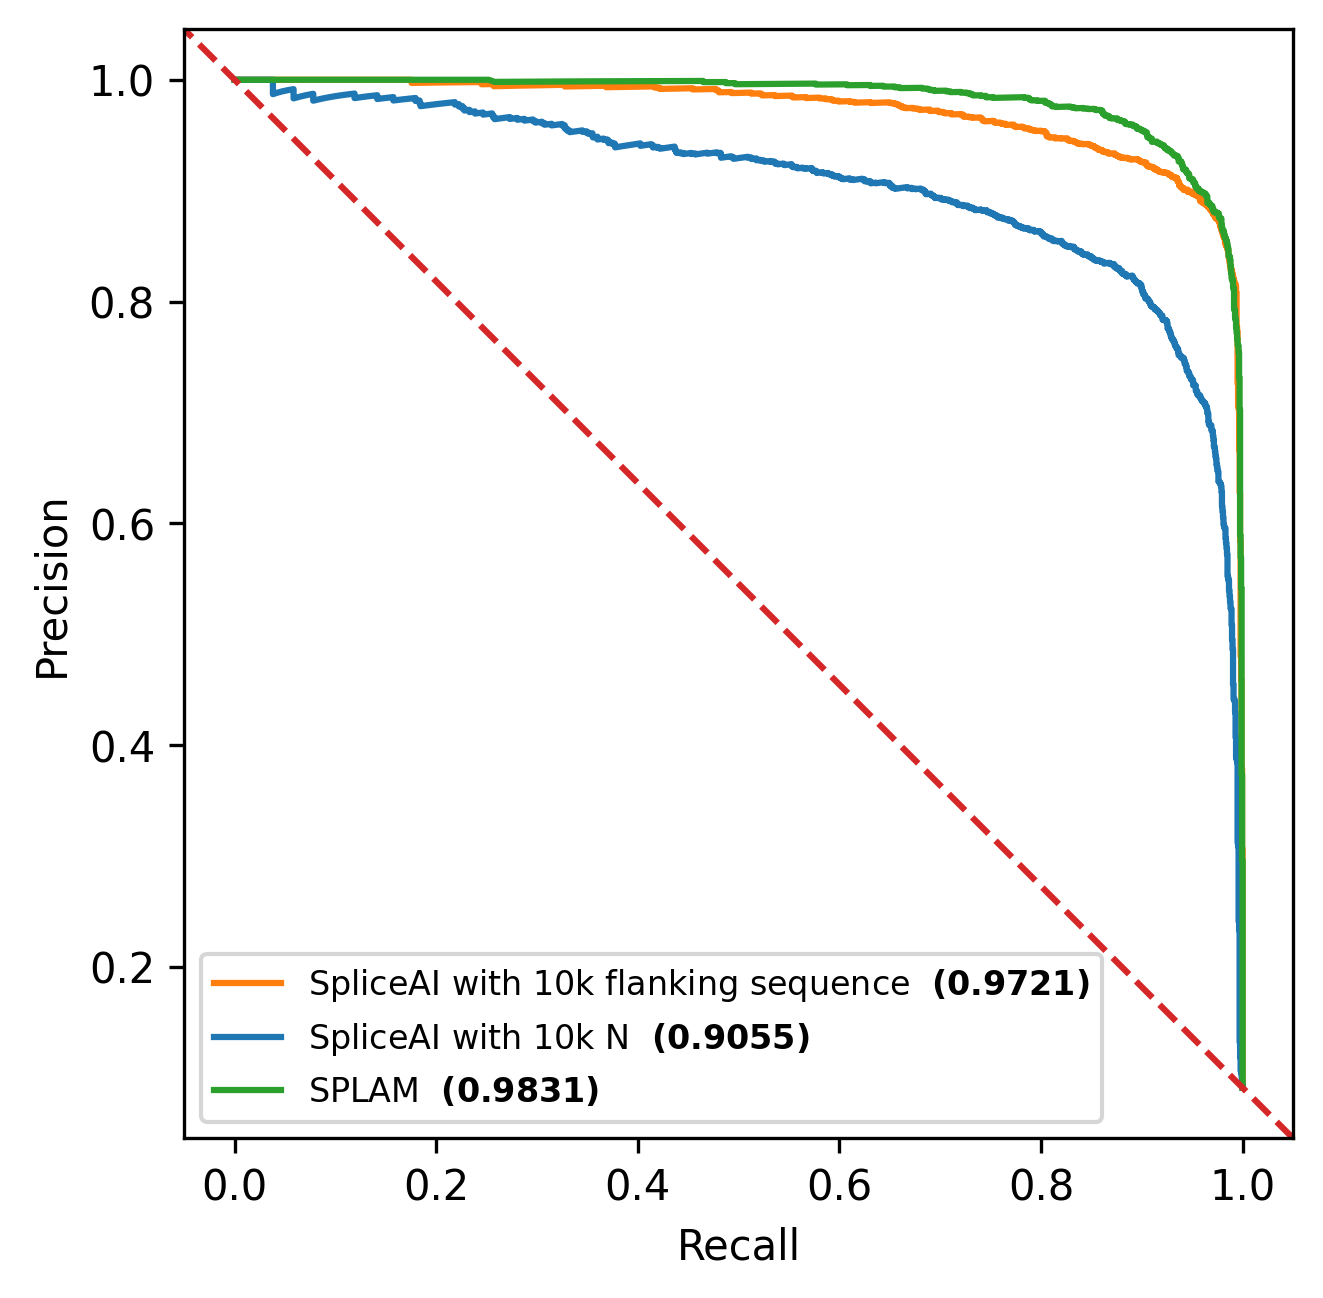
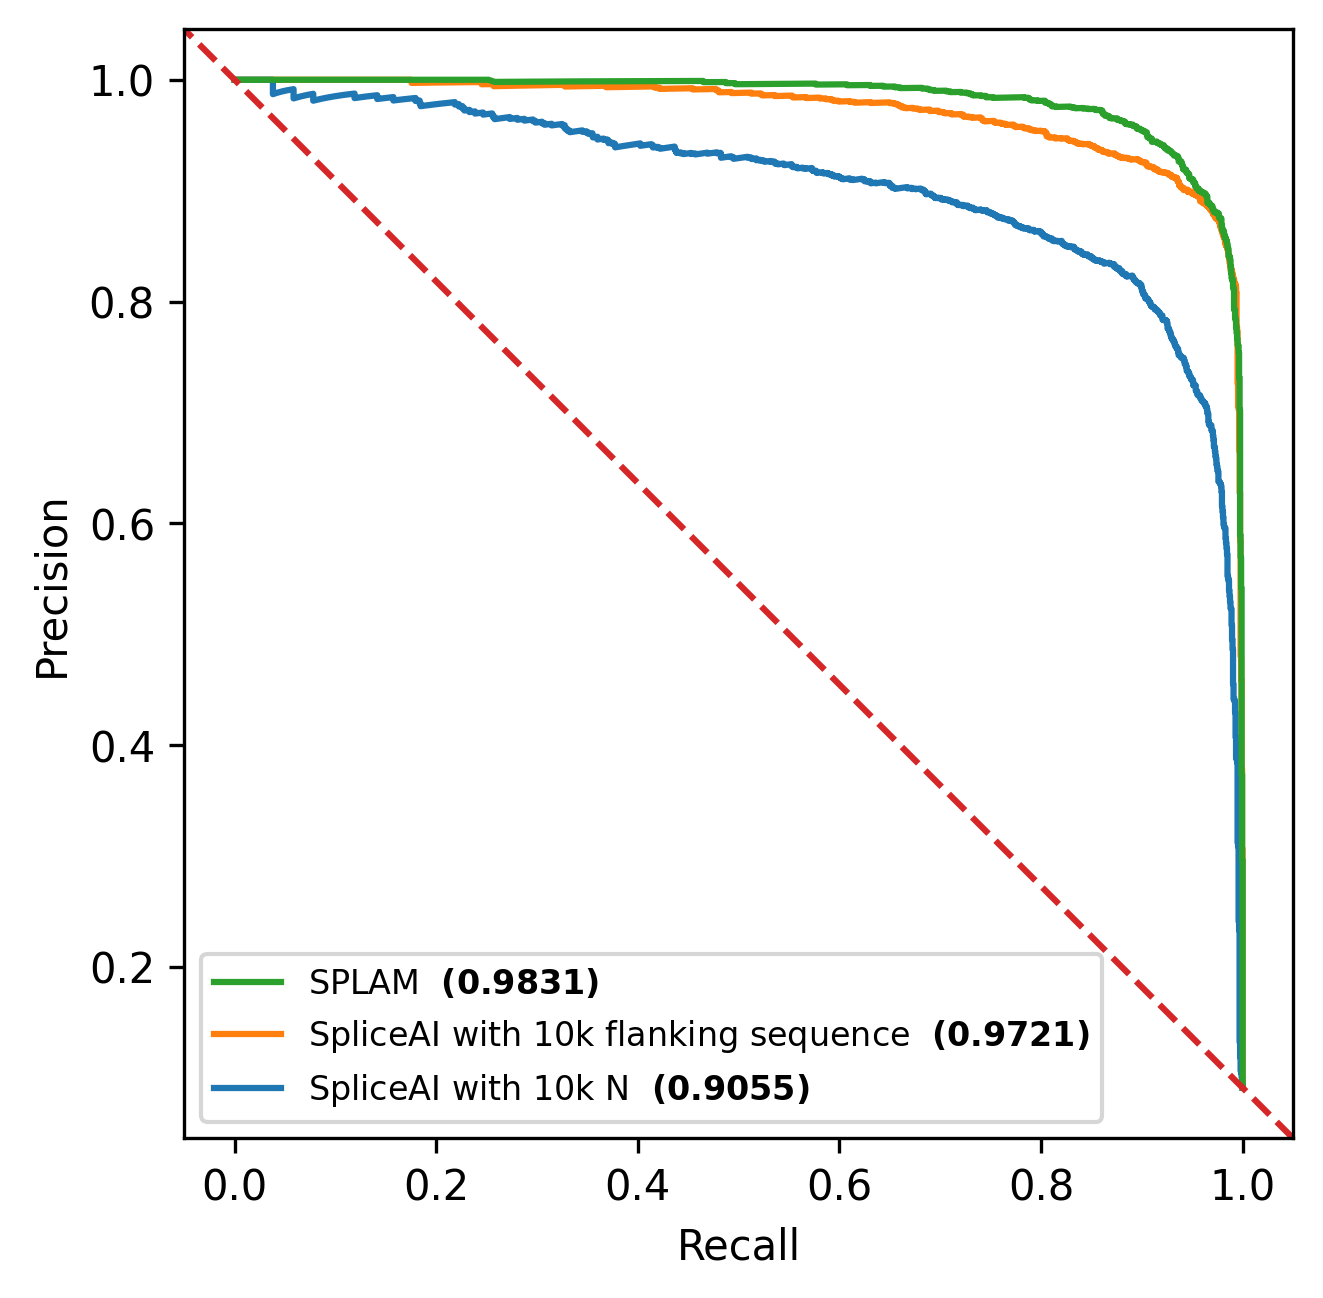
Update Figure2

Changed region(s): [[0.155, 0.7396, 0.8367, 0.8629]]

diff --git a/Figures/Figure_2/roc_pr.py b/Figures/Figure_2/roc_pr.py
@@ -30,13 +30,15 @@ def plot_pr_curve_J(true_y, y_prob_d, y_prob_a, label, option, choice, color):
     precision, recall, thresholds = precision_recall_curve_J_level_self(true_y, y_prob_d, y_prob_a, label, option, choice)
     auc_precision_recall = auc(recall, precision)
     print("auc_precision_recall: ", auc_precision_recall)
-    plt.plot(recall, precision, label=label + "  ${\\bf  (" + str('%.4f' % auc_precision_recall) + ")}$", color=color)
+    label_res = label + "  ${\\bf  (" + str('%.4f' % auc_precision_recall) + ")}$"
+    plt_res = plt.plot(recall, precision, label=label_res, color=color)
     # plt.plot(recall, precision, label=f"{label:<50}{'%10.4f' % auc_precision_recall:>1}")
 
     # , marker='o')
-    plt.legend(fontsize=8)
+    # plt.legend(fontsize=8)
     plt.xlabel('Recall')
     plt.ylabel('Precision')
+    return plt_res, label_res
 
 def plot_roc_curve(true_y, y_prob, label, option):
     """
@@ -58,12 +60,14 @@ def plot_roc_curve_J(true_y, y_prob_d, y_prob_a, label, option, choice, color):
     fpr, tpr, thresholds = roc_curve_J_level_self(true_y, y_prob_d, y_prob_a, label, option, choice)
     auc_roc = auc(fpr, tpr)
     print("auc_roc: ", auc_roc)
-    plt.plot(fpr, tpr, label=r""+label + "  ${\\bf  (" + str('%.4f' % auc_roc) + ")}$", color=color)
+    label_res = r""+label + "  ${\\bf  (" + str('%.4f' % auc_roc) + ")}$"
+    plt_res = plt.plot(fpr, tpr, label=label_res, color=color)
             #  "$\textbf{(}$" + str('%.4f' % auc_roc) + ")}")
     # , marker='o')
-    plt.legend(fontsize=8)
+    # plt.legend(fontsize=8)
     plt.xlabel('False Positive Rate')
     plt.ylabel('True Positive Rate')
+    return plt_res, label_res
 
 
 def plot_thresholds(true_y, y_prob_d, y_prob_a, type, SPLAM_VERSION):
@@ -402,12 +406,21 @@ def main():
             ###################################
             print("Plotting junction!!")
             fig, ax = plt.subplots()
-            plot_pr_curve_J(spliceai_noN_d_label, spliceai_noN_d_pred,spliceai_noN_a_pred, "SpliceAI with 10k flanking sequence", "sklearn", "min", color="#ff7f0e")
-            plot_pr_curve_J(spliceai_N_d_label, spliceai_N_d_pred,spliceai_N_a_pred, "SpliceAI with 10k N", "sklearn", "min", color="#1f77b4")
-            plot_pr_curve_J(splam_d_label, splam_d_pred, splam_a_pred, "SPLAM", "sklearn", "min", color="#2ca02c")
+            spliceainoN_plt, spliceainoN_label = plot_pr_curve_J(spliceai_noN_d_label, spliceai_noN_d_pred,spliceai_noN_a_pred, "SpliceAI with 10k flanking sequence", "sklearn", "min", color="#ff7f0e")
+            spliceaiN_plt, spliceaiN_label = plot_pr_curve_J(spliceai_N_d_label, spliceai_N_d_pred,spliceai_N_a_pred, "SpliceAI with 10k N", "sklearn", "min", color="#1f77b4")
+            splam_plt, splam_label = plot_pr_curve_J(splam_d_label, splam_d_pred, splam_a_pred, "SPLAM", "sklearn", "min", color="#2ca02c")
 
             ax.set_aspect(1.0/ax.get_data_ratio(), adjustable='box')
             ax.plot([1, 0], [0, 1], transform=ax.transAxes, linestyle='dashed', color="#d62728")
+            #get handles and labels
+            handles, labels = plt.gca().get_legend_handles_labels()
+
+            #specify order of items in legend
+            order = [2, 0 ,1]
+
+            #add legend to plot
+            plt.legend([handles[idx] for idx in order],[labels[idx] for idx in order], fontsize=8)
+            # plt.legend([splam_plt, spliceainoN_plt, spliceaiN_plt], [splam_label, spliceainoN_label, spliceaiN_label], fontsize=8)
             plt.savefig("./IMG/"+SPLAM_VERSION+"/junction/junc_pr_min_ratio_2000-10000_"+MANE_OR_ALTS+".png", bbox_inches='tight', dpi=300)
             plt.close()
 
@@ -434,12 +447,22 @@ def main():
             # ROC of junction (min)
             ###################################
             fig, ax = plt.subplots()
-            plot_roc_curve_J(spliceai_noN_d_label, spliceai_noN_d_pred, spliceai_noN_a_pred, "SpliceAI with 10k flanking sequence", "sklearn", "min", color="#ff7f0e")
-            plot_roc_curve_J(spliceai_N_d_label, spliceai_N_d_pred, spliceai_N_a_pred, "SpliceAI with 10k N", "sklearn", "min", color="#1f77b4")
-            plot_roc_curve_J(splam_d_label, splam_d_pred, splam_a_pred, "SPLAM", "sklearn", "min", color="#2ca02c")
+            spliceainoN_plt, spliceainoN_label = plot_roc_curve_J(spliceai_noN_d_label, spliceai_noN_d_pred, spliceai_noN_a_pred, "SpliceAI with 10k flanking sequence", "sklearn", "min", color="#ff7f0e")
+            spliceaiN_plt, spliceaiN_label = plot_roc_curve_J(spliceai_N_d_label, spliceai_N_d_pred, spliceai_N_a_pred, "SpliceAI with 10k N", "sklearn", "min", color="#1f77b4")
+            splam_plt, splam_label = plot_roc_curve_J(splam_d_label, splam_d_pred, splam_a_pred, "SPLAM", "sklearn", "min", color="#2ca02c")
 
             ax.set_aspect(1.0/ax.get_data_ratio(), adjustable='box')
             ax.plot([0, 1], [0, 1], transform=ax.transAxes, linestyle='dashed', color="#d62728")
+
+            #get handles and labels
+            handles, labels = plt.gca().get_legend_handles_labels()
+
+            #specify order of items in legend
+            order = [2, 0 ,1]
+
+            #add legend to plot
+            plt.legend([handles[idx] for idx in order],[labels[idx] for idx in order], fontsize=8)
+            # plt.legend([splam_plt, spliceainoN_plt, spliceaiN_plt], [splam_label, spliceainoN_label, spliceaiN_label], fontsize=8)
             plt.savefig("./IMG/"+SPLAM_VERSION+"/junction/junc_roc_min_ratio_2000-10000_"+MANE_OR_ALTS+".png", bbox_inches='tight', dpi=300)
             plt.close()
 

diff --git a/Figures/Figure_2/d_a_score_diff.py b/Figures/Figure_2/d_a_score_diff.py
@@ -66,7 +66,6 @@ def main():
         print("")
         
 
-    plt.figure(figsize=(9, 4))
     for type in ["filter", "nofilter"]:
         for SPLAM_VERSION in ["SPLAM_v11"]:#, "SPLAM_v12"]:
             os.makedirs("./IMG/"+SPLAM_VERSION+"/d_a_diff_plot/", exist_ok=True)
@@ -103,7 +102,8 @@ def main():
                 # generate some sample data for predict probabilities and true labels
                 # predict_probabilities = np.minimum(splam_d_pred,splam_a_pred)
                 # true_labels = splam_d_label
-
+                fig, ax = plt.subplots(figsize=(9,4))
+                # plt.figure(figsize=(9, 4))
 
                 if type == "nofilter":
                     sns.kdeplot(score_noN_diff, shade=True, clip = (-1.0, 1.0), alpha=0.25, label="SpliceAI-10k", color="#ff7f0e")
@@ -129,7 +129,7 @@ def main():
                 plt.axvline(x=0.15, linestyle='--', color='black')#, label='Optimal Threshold (maximum F1 score)')
 
 
-                plt.xlabel('Scores')
+                plt.xlabel('Score difference')
                 plt.ylabel('Density')
                 # 'Score difference plot ('+
                 # plt.rcParams['text.usetex'] = True
@@ -140,7 +140,14 @@ def main():
                 # plt.text(2.5, 25, "My Plot", fontdict={'fontname': 'Arial', 'fontsize': 12, 'fontweight': 'bold'})
                 # plt.text(2.5, 22, "Subtitle", fontdict={'fontname': 'Times New Roman', 'fontsize': 10})
 
-                plt.legend(loc="upper right")
+                #get handles and labels
+                handles, labels = plt.gca().get_legend_handles_labels()
+
+                #specify order of items in legend
+                order = [1, 0]
+
+                #add legend to plot
+                plt.legend([handles[idx] for idx in order],[labels[idx] for idx in order], loc="upper right")
                 plt.tight_layout()
                 plt.grid(True)
                 # Add a legend
